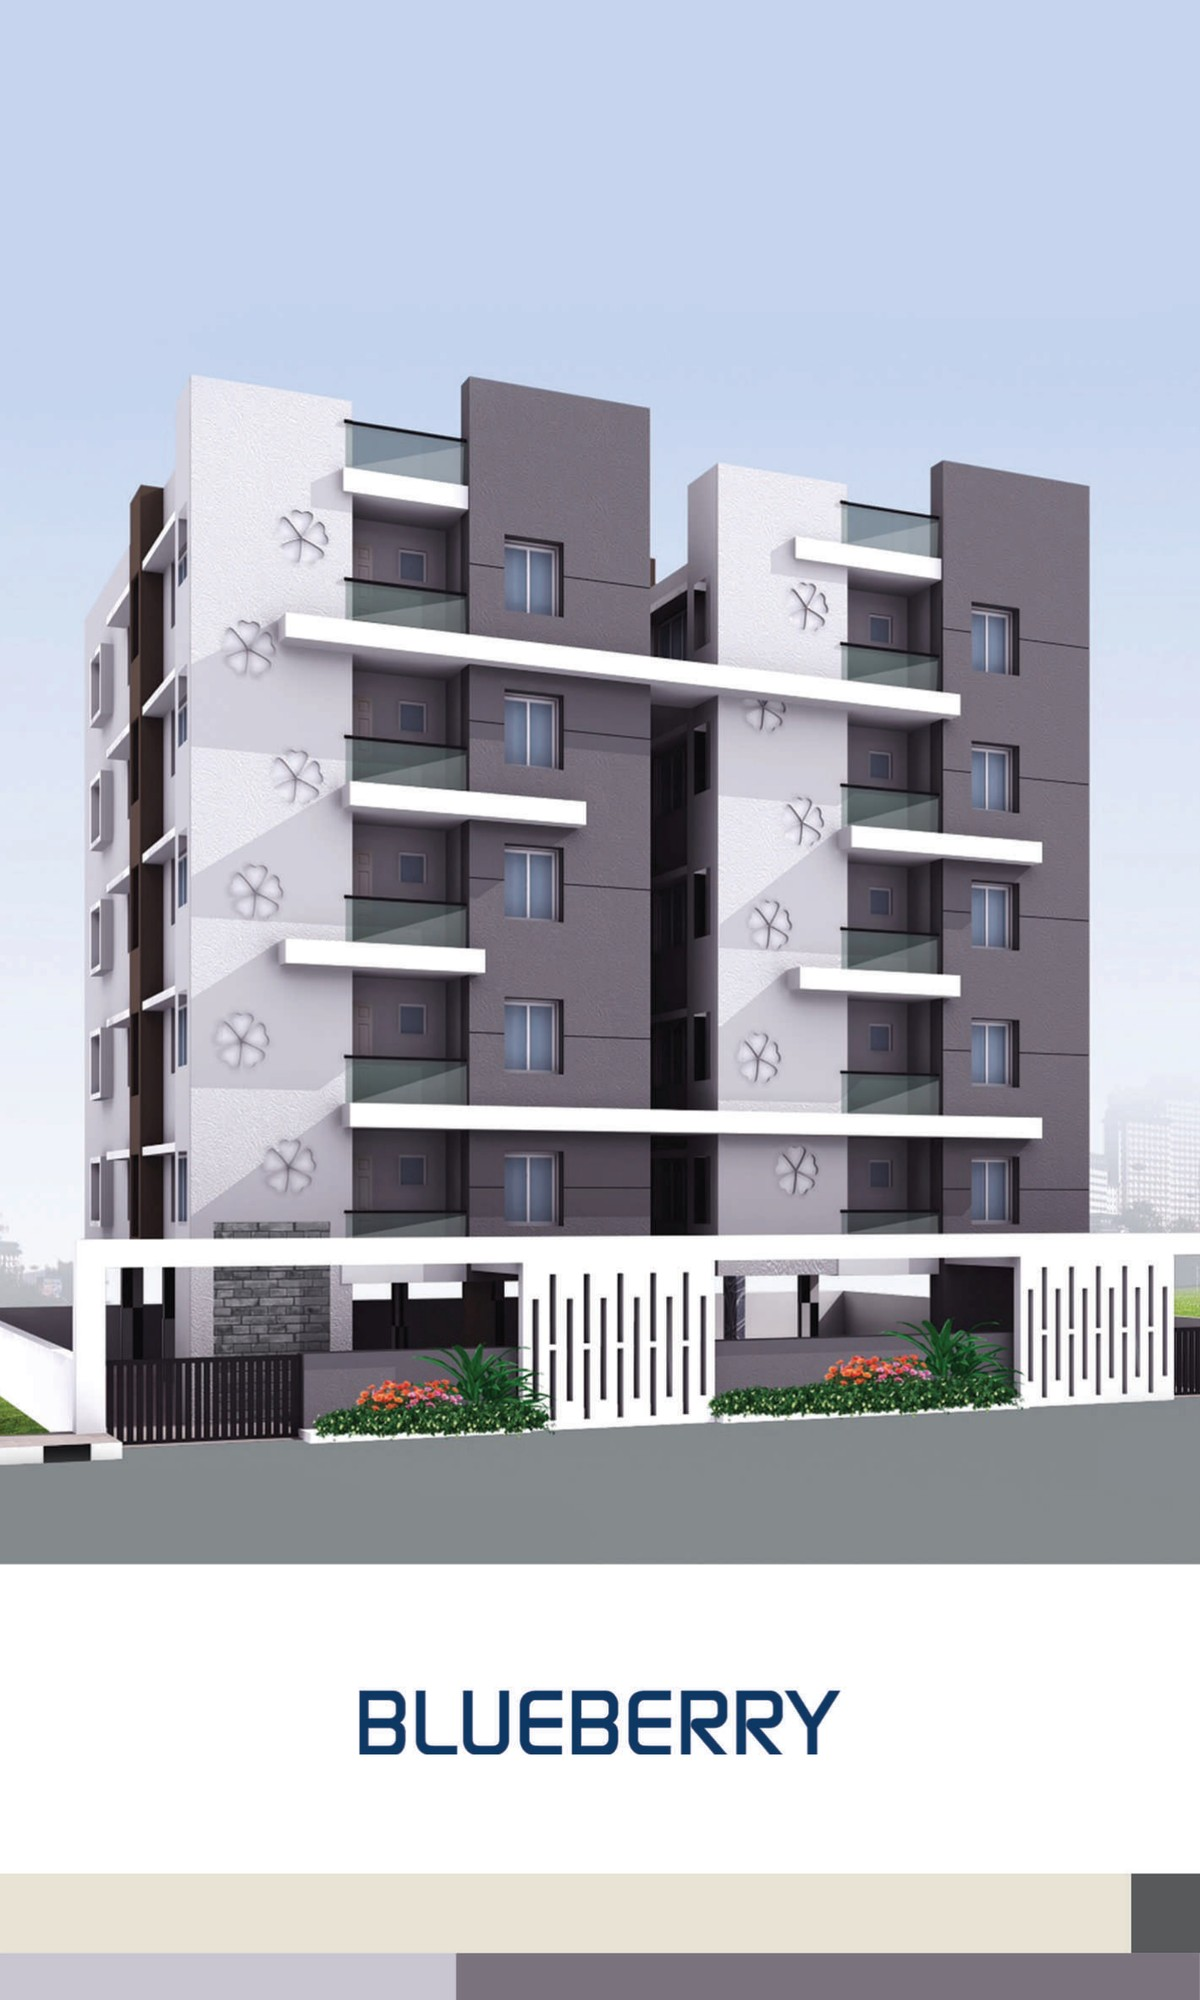
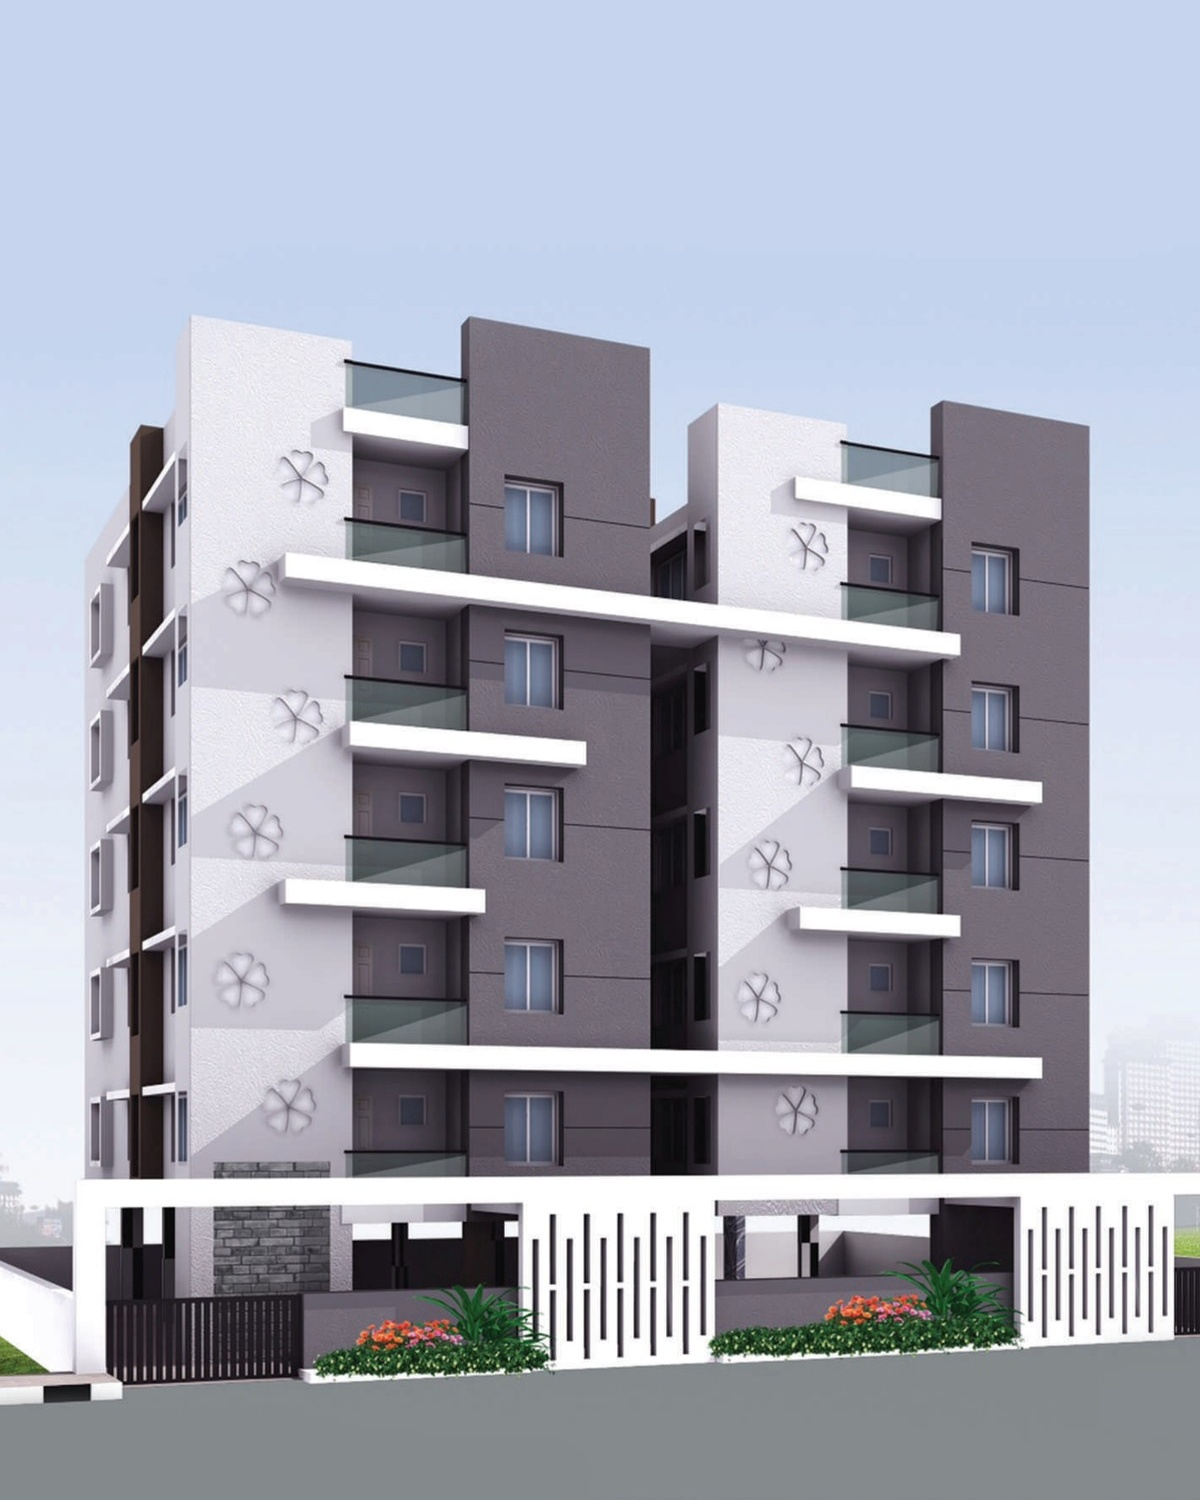
fix(home): optimize construction standard photo to 4:5 aspect ratio without cropping

diff --git a/src/pages/Home.tsx b/src/pages/Home.tsx
@@ -262,12 +262,12 @@ export const Home = () => {
               initial="hidden"
               whileInView="visible"
               viewport={viewportConfig}
-              className="lg:col-span-6 order-2 lg:order-1"
+              className="lg:col-span-6 order-2 lg:order-1 flex justify-center"
             >
-              <div className="aspect-[4/3] overflow-hidden rounded-sm group">
+              <div className="w-full max-w-lg lg:max-w-none aspect-[4/5] overflow-hidden rounded-2xl border border-white/10 shadow-2xl bg-[#1f1e1a] group">
                 <img
                   src="/images/projects/blueberry-elevation.jpg"
-                  alt="Blueberry, Ayodhya Nagar"
+                  alt="Blueberry Architectural Elevation, Ayodhya Nagar"
                   className="w-full h-full object-cover group-hover:scale-105 transition-transform duration-700"
                 />
               </div>
